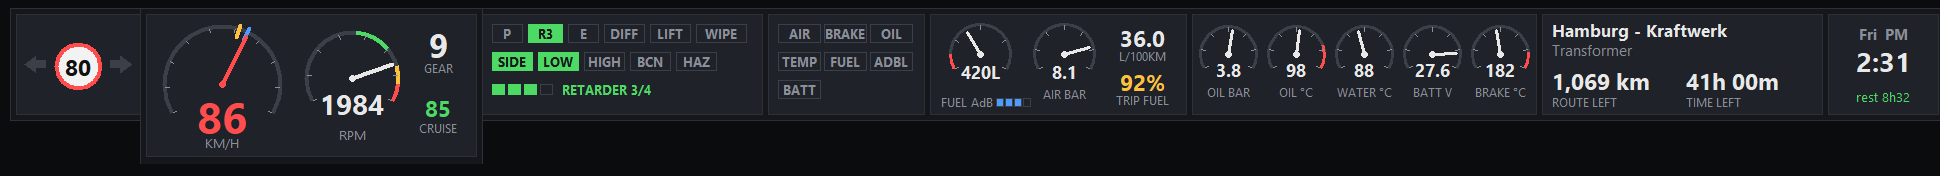
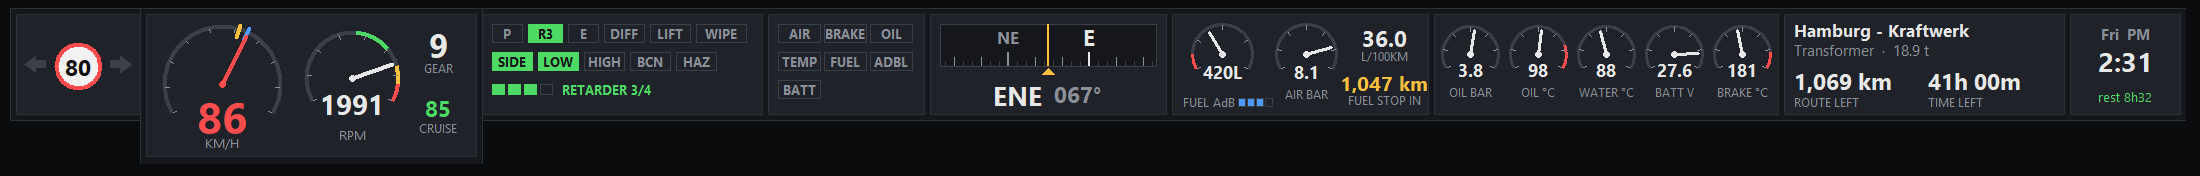
Range / fuel stop instead of trip-fuel percentage; cargo weight
The trip-fuel percentage read as an alarm on any long haul and could
flicker between amber and red. It now shows range, and whether it
covers the rest of the job: green "makes it", steady amber "fuel stop
in N mi" (range minus an adjustable safety margin), red only when the
range is nearly gone. The job panel shows cargo weight (lb / t).

diff --git a/README.md b/README.md
@@ -27,9 +27,9 @@ From left to right. Every section can be switched off.
 | **Status lights** | Park brake, retarder (with its current step), engine/Jake brake, diff lock, lift axle, wipers, side/low/high beams, beacon, hazards, plus a row of pips counting retarder steps |
 | **Warnings** | Low air, emergency brake, oil pressure, coolant temperature, low fuel, low DEF/AdBlue, battery |
 | **Compass** | A scrolling compass tape with the direction you're facing under the centre mark, plus the 16-point heading and degrees (e.g. `ENE 068°`) |
-| **Fuel** | Fuel gauge with reserve zone, DEF/AdBlue level, air pressure, average economy, and **trip fuel**: how much of the fuel on board the rest of the job needs |
+| **Fuel** | Fuel gauge with reserve zone, DEF/AdBlue level, air pressure, average economy, and **range / fuel stop**: whether your fuel covers the rest of the job, or how far you can go before you need to stop |
 | **Gauges** | Oil pressure, oil temperature, coolant temperature, battery voltage, brake temperature |
-| **Job** | Destination, cargo, distance and time left |
+| **Job** | Destination, cargo and its weight, distance and time left |
 | **Clock** | In-game day and time (12- or 24-hour) and time until you need to rest |
 
 ### Reading the speedometer
@@ -48,13 +48,17 @@ The bands are scaled to your engine's governed RPM. For a typical 2,100 RPM truc
 | Amber | about 1,700–1,900 | Working hard. The RPM number turns amber. |
 | Red | about 1,900 and up | Near the governor. The RPM number **blinks red**. |
 
-### Trip fuel colours
+### Range and fuel stops
 
-| Colour | Meaning |
+TruckBar compares your fuel range with the distance left on the job, keeping a safety
+margin in hand (75 mi / 120 km by default; change it in Settings).
+
+| Shows | Meaning |
 |---|---|
-| Green | The job needs under 75% of the fuel on board |
-| Amber | It needs 75–100%. Plan a stop. |
-| Red | You won't make it without refuelling |
+| **640 mi**, *RANGE · MAKES IT* (green) | You can finish the job on the fuel you have |
+| **420 mi**, *FUEL STOP IN* (amber, steady) | You'll need to refuel. Start looking within that distance. Normal on a long haul. |
+| **40 mi**, *FUEL STOP IN* (red) | Under about 60 mi / 100 km of range left |
+| **RANGE** (white) | No job: just how far the fuel on board will take you |
 
 ### Gear names
 
@@ -161,6 +165,7 @@ Once you're driving, the game holds the mouse, so TruckBar is controlled by a ho
 - **Opacity:** 20% to 100%.
 - **Size:** 50% to 200%.
 - **Gear names like the dash:** see [Gear names](#gear-names).
+- **Fuel stop margin:** how much range to keep in reserve when working out the fuel stop.
 - **24-hour clock:** off gives 12-hour with AM/PM.
 - **Position:** arrow buttons nudge the bar. **Centre along top** puts it back.
 - **Lock position:** stops accidental dragging.
